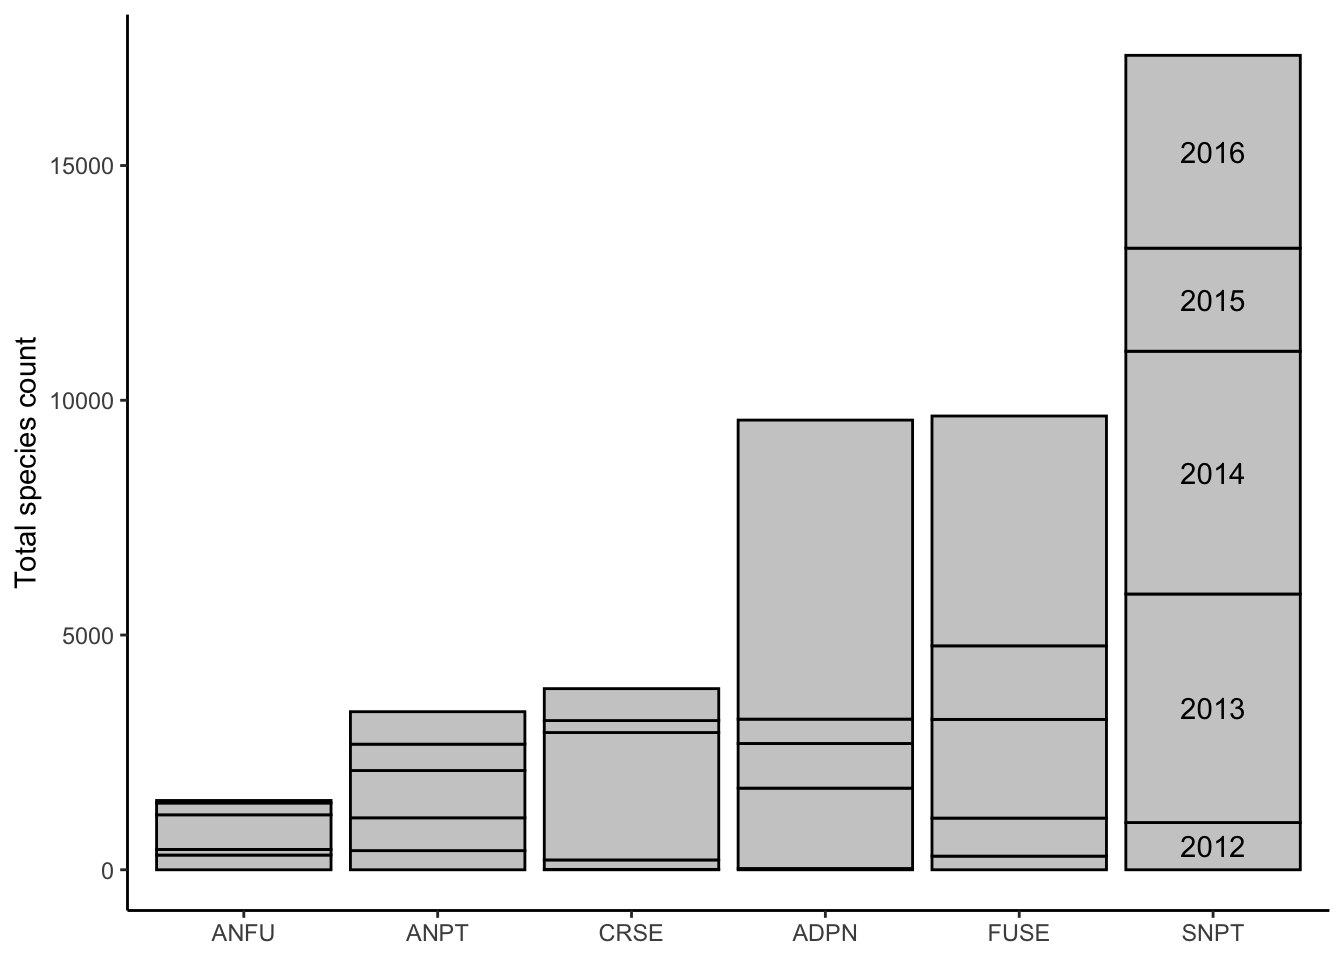
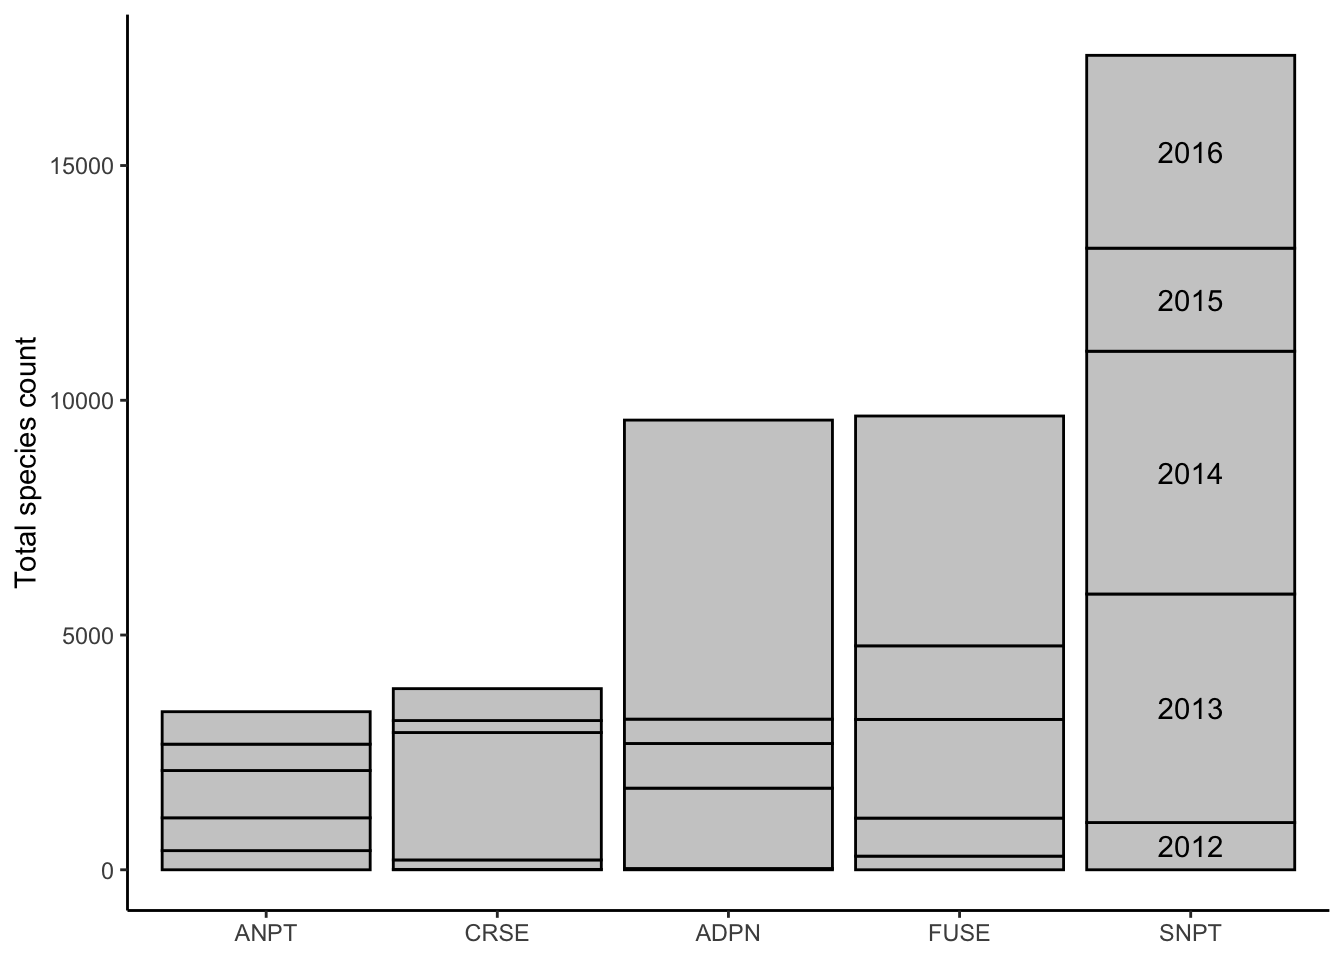
Rasterize counts by year and species

diff --git a/docs/01_predators.html b/docs/01_predators.html
@@ -104,7 +104,7 @@ code span.wa { color: #60a0b0; font-weight: bold; font-style: italic; } /* Warni
 
 <div id="quarto-content" class="page-columns page-rows-contents page-layout-article">
 
-<main class="content" id="quarto-document-content">
+<main class="content page-columns page-full" id="quarto-document-content">
 
 <header id="title-block-header" class="quarto-title-block default">
 <div class="quarto-title">
@@ -123,49 +123,48 @@ code span.wa { color: #60a0b0; font-weight: bold; font-style: italic; } /* Warni
 
 </header>
 
-<section id="antarctic-peninsula-winter-predators" class="level2">
+<section id="antarctic-peninsula-winter-predators" class="level2 page-columns page-full">
 <h2 class="anchored" data-anchor-id="antarctic-peninsula-winter-predators">Antarctic Peninsula winter predators</h2>
 <section id="counts" class="level3">
 <h3 class="anchored" data-anchor-id="counts">Counts</h3>
-<p>The six most abundant species.</p>
+<p>The five most abundant species.</p>
 <div class="cell">
 <details>
 <summary>Code</summary>
-<div class="sourceCode cell-code" id="cb1"><pre class="sourceCode r code-with-copy"><code class="sourceCode r"><span id="cb1-1"><a href="#cb1-1" aria-hidden="true" tabindex="-1"></a>top_six <span class="ot">&lt;-</span> predators_agg <span class="sc">%&gt;%</span> </span>
+<div class="sourceCode cell-code" id="cb1"><pre class="sourceCode r code-with-copy"><code class="sourceCode r"><span id="cb1-1"><a href="#cb1-1" aria-hidden="true" tabindex="-1"></a>top_five <span class="ot">&lt;-</span> predators_agg <span class="sc">%&gt;%</span> </span>
 <span id="cb1-2"><a href="#cb1-2" aria-hidden="true" tabindex="-1"></a>  <span class="fu">group_by</span>(species) <span class="sc">%&gt;%</span> </span>
 <span id="cb1-3"><a href="#cb1-3" aria-hidden="true" tabindex="-1"></a>  <span class="fu">summarize</span>(<span class="at">total_count =</span> <span class="fu">sum</span>(count)) <span class="sc">%&gt;%</span> </span>
 <span id="cb1-4"><a href="#cb1-4" aria-hidden="true" tabindex="-1"></a>  <span class="fu">arrange</span>(<span class="fu">desc</span>(total_count)) <span class="sc">%&gt;%</span></span>
-<span id="cb1-5"><a href="#cb1-5" aria-hidden="true" tabindex="-1"></a>  <span class="fu">slice</span>(<span class="dv">1</span><span class="sc">:</span><span class="dv">6</span>)</span>
+<span id="cb1-5"><a href="#cb1-5" aria-hidden="true" tabindex="-1"></a>  <span class="fu">slice</span>(<span class="dv">1</span><span class="sc">:</span><span class="dv">5</span>)</span>
 <span id="cb1-6"><a href="#cb1-6" aria-hidden="true" tabindex="-1"></a></span>
-<span id="cb1-7"><a href="#cb1-7" aria-hidden="true" tabindex="-1"></a>top_six</span></code><button title="Copy to Clipboard" class="code-copy-button"><i class="bi"></i></button></pre></div>
+<span id="cb1-7"><a href="#cb1-7" aria-hidden="true" tabindex="-1"></a>top_five</span></code><button title="Copy to Clipboard" class="code-copy-button"><i class="bi"></i></button></pre></div>
 </details>
 <div class="cell-output cell-output-stdout">
-<pre><code># A tibble: 6 × 2
+<pre><code># A tibble: 5 × 2
   species total_count
   &lt;chr&gt;         &lt;dbl&gt;
 1 SNPT          17347
 2 FUSE           9665
 3 ADPN           9578
 4 CRSE           3858
-5 ANPT           3367
-6 ANFU           1476</code></pre>
+5 ANPT           3367</code></pre>
 </div>
 </div>
 <div class="cell">
 <details>
 <summary>Code</summary>
-<div class="sourceCode cell-code" id="cb3"><pre class="sourceCode r code-with-copy"><code class="sourceCode r"><span id="cb3-1"><a href="#cb3-1" aria-hidden="true" tabindex="-1"></a>top_six_plot_data <span class="ot">&lt;-</span> predators_agg <span class="sc">%&gt;%</span> </span>
-<span id="cb3-2"><a href="#cb3-2" aria-hidden="true" tabindex="-1"></a>  <span class="fu">semi_join</span>(top_six, <span class="at">by =</span> <span class="st">"species"</span>) <span class="sc">%&gt;%</span> </span>
+<div class="sourceCode cell-code" id="cb3"><pre class="sourceCode r code-with-copy"><code class="sourceCode r"><span id="cb3-1"><a href="#cb3-1" aria-hidden="true" tabindex="-1"></a>top_five_plot_data <span class="ot">&lt;-</span> predators_agg <span class="sc">%&gt;%</span> </span>
+<span id="cb3-2"><a href="#cb3-2" aria-hidden="true" tabindex="-1"></a>  <span class="fu">semi_join</span>(top_five, <span class="at">by =</span> <span class="st">"species"</span>) <span class="sc">%&gt;%</span> </span>
 <span id="cb3-3"><a href="#cb3-3" aria-hidden="true" tabindex="-1"></a>  <span class="fu">group_by</span>(year, species) <span class="sc">%&gt;%</span> </span>
 <span id="cb3-4"><a href="#cb3-4" aria-hidden="true" tabindex="-1"></a>  <span class="fu">summarize</span>(<span class="at">total =</span> <span class="fu">sum</span>(count), <span class="at">.groups =</span> <span class="st">"drop"</span>) <span class="sc">%&gt;%</span> </span>
 <span id="cb3-5"><a href="#cb3-5" aria-hidden="true" tabindex="-1"></a>  <span class="fu">mutate</span>(<span class="at">species =</span> <span class="fu">fct_reorder</span>(species, total, <span class="at">.fun =</span> sum),</span>
 <span id="cb3-6"><a href="#cb3-6" aria-hidden="true" tabindex="-1"></a>         <span class="at">year =</span> <span class="fu">factor</span>(year, <span class="at">levels =</span> <span class="dv">2016</span><span class="sc">:</span><span class="dv">2012</span>))</span>
-<span id="cb3-7"><a href="#cb3-7" aria-hidden="true" tabindex="-1"></a>year_labels <span class="ot">&lt;-</span> top_six_plot_data <span class="sc">%&gt;%</span> </span>
+<span id="cb3-7"><a href="#cb3-7" aria-hidden="true" tabindex="-1"></a>year_labels <span class="ot">&lt;-</span> top_five_plot_data <span class="sc">%&gt;%</span> </span>
 <span id="cb3-8"><a href="#cb3-8" aria-hidden="true" tabindex="-1"></a>  <span class="fu">filter</span>(species <span class="sc">==</span> <span class="st">"SNPT"</span>) <span class="sc">%&gt;%</span> </span>
 <span id="cb3-9"><a href="#cb3-9" aria-hidden="true" tabindex="-1"></a>  <span class="fu">arrange</span>(<span class="fu">desc</span>(year)) <span class="sc">%&gt;%</span>                   <span class="co"># Make the labels show up at</span></span>
 <span id="cb3-10"><a href="#cb3-10" aria-hidden="true" tabindex="-1"></a>  <span class="fu">mutate</span>(<span class="at">total =</span> <span class="fu">cumsum</span>(total) <span class="sc">-</span> total <span class="sc">/</span> <span class="dv">2</span>) <span class="co"># correct y-axis position</span></span>
 <span id="cb3-11"><a href="#cb3-11" aria-hidden="true" tabindex="-1"></a></span>
-<span id="cb3-12"><a href="#cb3-12" aria-hidden="true" tabindex="-1"></a><span class="fu">ggplot</span>(top_six_plot_data, <span class="fu">aes</span>(species, total, <span class="at">group =</span> year)) <span class="sc">+</span></span>
+<span id="cb3-12"><a href="#cb3-12" aria-hidden="true" tabindex="-1"></a><span class="fu">ggplot</span>(top_five_plot_data, <span class="fu">aes</span>(species, total, <span class="at">group =</span> year)) <span class="sc">+</span></span>
 <span id="cb3-13"><a href="#cb3-13" aria-hidden="true" tabindex="-1"></a>  <span class="fu">geom_col</span>(<span class="at">color =</span> <span class="st">"black"</span>, <span class="at">fill =</span> <span class="st">"grey80"</span>) <span class="sc">+</span></span>
 <span id="cb3-14"><a href="#cb3-14" aria-hidden="true" tabindex="-1"></a>  <span class="fu">geom_text</span>(<span class="fu">aes</span>(<span class="at">label =</span> year), year_labels) <span class="sc">+</span></span>
 <span id="cb3-15"><a href="#cb3-15" aria-hidden="true" tabindex="-1"></a>  <span class="fu">labs</span>(<span class="at">y =</span> <span class="st">"Total species count"</span>) <span class="sc">+</span></span>
@@ -177,36 +176,35 @@ code span.wa { color: #60a0b0; font-weight: bold; font-style: italic; } /* Warni
 </div>
 </div>
 </section>
-<section id="maps" class="level3">
+<section id="maps" class="level3 page-columns page-full">
 <h3 class="anchored" data-anchor-id="maps">Maps</h3>
-<div class="cell">
+<div class="cell page-columns page-full" data-fig.dpi="600">
 <details>
 <summary>Code</summary>
-<div class="sourceCode cell-code" id="cb4"><pre class="sourceCode r code-with-copy"><code class="sourceCode r"><span id="cb4-1"><a href="#cb4-1" aria-hidden="true" tabindex="-1"></a>snpt_sf <span class="ot">&lt;-</span> predators_agg <span class="sc">%&gt;%</span> </span>
-<span id="cb4-2"><a href="#cb4-2" aria-hidden="true" tabindex="-1"></a>  <span class="fu">filter</span>(species <span class="sc">==</span> <span class="st">"SNPT"</span>,</span>
-<span id="cb4-3"><a href="#cb4-3" aria-hidden="true" tabindex="-1"></a>         year <span class="sc">==</span> <span class="dv">2016</span>) <span class="sc">%&gt;%</span> </span>
-<span id="cb4-4"><a href="#cb4-4" aria-hidden="true" tabindex="-1"></a>  <span class="fu">latlon_to_sf</span>(<span class="at">coords =</span> <span class="fu">c</span>(<span class="st">"lon_mean"</span>, <span class="st">"lat_mean"</span>))</span>
-<span id="cb4-5"><a href="#cb4-5" aria-hidden="true" tabindex="-1"></a></span>
-<span id="cb4-6"><a href="#cb4-6" aria-hidden="true" tabindex="-1"></a>snpt_stars <span class="ot">&lt;-</span> <span class="fu">rasterize_counts</span>(snpt_sf, <span class="at">res =</span> <span class="fl">1e4</span>, <span class="at">layer_name =</span> <span class="st">"SNPT"</span>)</span>
-<span id="cb4-7"><a href="#cb4-7" aria-hidden="true" tabindex="-1"></a></span>
-<span id="cb4-8"><a href="#cb4-8" aria-hidden="true" tabindex="-1"></a>map_lim <span class="ot">&lt;-</span> sf<span class="sc">::</span><span class="fu">st_bbox</span>(snpt_sf) <span class="sc">%&gt;%</span> </span>
-<span id="cb4-9"><a href="#cb4-9" aria-hidden="true" tabindex="-1"></a>  <span class="fu">project_bbox</span>()</span>
+<div class="sourceCode cell-code" id="cb4"><pre class="sourceCode r code-with-copy"><code class="sourceCode r"><span id="cb4-1"><a href="#cb4-1" aria-hidden="true" tabindex="-1"></a>topfive_sf <span class="ot">&lt;-</span> predators_agg <span class="sc">%&gt;%</span> </span>
+<span id="cb4-2"><a href="#cb4-2" aria-hidden="true" tabindex="-1"></a>  <span class="fu">semi_join</span>(top_five, <span class="at">by =</span> <span class="st">"species"</span>) <span class="sc">%&gt;%</span> </span>
+<span id="cb4-3"><a href="#cb4-3" aria-hidden="true" tabindex="-1"></a>  <span class="fu">latlon_to_sf</span>(<span class="at">coords =</span> <span class="fu">c</span>(<span class="st">"lon_mean"</span>, <span class="st">"lat_mean"</span>))</span>
+<span id="cb4-4"><a href="#cb4-4" aria-hidden="true" tabindex="-1"></a></span>
+<span id="cb4-5"><a href="#cb4-5" aria-hidden="true" tabindex="-1"></a>topfive_stars <span class="ot">&lt;-</span> <span class="fu">rasterize_counts</span>(topfive_sf, <span class="at">res =</span> <span class="fl">5e4</span>)</span>
+<span id="cb4-6"><a href="#cb4-6" aria-hidden="true" tabindex="-1"></a></span>
+<span id="cb4-7"><a href="#cb4-7" aria-hidden="true" tabindex="-1"></a>map_lim <span class="ot">&lt;-</span> sf<span class="sc">::</span><span class="fu">st_bbox</span>(topfive_sf) <span class="sc">%&gt;%</span> </span>
+<span id="cb4-8"><a href="#cb4-8" aria-hidden="true" tabindex="-1"></a>  <span class="fu">project_bbox</span>() <span class="sc">%&gt;%</span> </span>
+<span id="cb4-9"><a href="#cb4-9" aria-hidden="true" tabindex="-1"></a>  <span class="fu">expand_bbox</span>(<span class="at">factor =</span> <span class="fl">1.2</span>)</span>
 <span id="cb4-10"><a href="#cb4-10" aria-hidden="true" tabindex="-1"></a></span>
-<span id="cb4-11"><a href="#cb4-11" aria-hidden="true" tabindex="-1"></a><span class="fu">ggplot</span>() <span class="sc">+</span></span>
-<span id="cb4-12"><a href="#cb4-12" aria-hidden="true" tabindex="-1"></a>  <span class="fu">geom_sf</span>(<span class="at">data =</span> ant_sf) <span class="sc">+</span></span>
-<span id="cb4-13"><a href="#cb4-13" aria-hidden="true" tabindex="-1"></a>  stars<span class="sc">::</span><span class="fu">geom_stars</span>(<span class="fu">aes</span>(<span class="at">fill =</span> SNPT), <span class="at">data =</span> snpt_stars) <span class="sc">+</span></span>
-<span id="cb4-14"><a href="#cb4-14" aria-hidden="true" tabindex="-1"></a>  <span class="fu">scale_fill_gradient</span>(<span class="at">low =</span> <span class="st">"lightblue"</span>, <span class="at">high =</span> <span class="st">"darkred"</span>,</span>
-<span id="cb4-15"><a href="#cb4-15" aria-hidden="true" tabindex="-1"></a>                      <span class="at">na.value =</span> <span class="cn">NA</span>) <span class="sc">+</span></span>
-<span id="cb4-16"><a href="#cb4-16" aria-hidden="true" tabindex="-1"></a>  <span class="fu">expand_limits</span>(<span class="at">fill =</span> <span class="dv">0</span>) <span class="sc">+</span></span>
-<span id="cb4-17"><a href="#cb4-17" aria-hidden="true" tabindex="-1"></a>  <span class="fu">coord_sf</span>(<span class="at">xlim =</span> map_lim[<span class="fu">c</span>(<span class="st">"xmin"</span>, <span class="st">"xmax"</span>)],</span>
-<span id="cb4-18"><a href="#cb4-18" aria-hidden="true" tabindex="-1"></a>           <span class="at">ylim =</span> map_lim[<span class="fu">c</span>(<span class="st">"ymin"</span>, <span class="st">"ymax"</span>)],</span>
-<span id="cb4-19"><a href="#cb4-19" aria-hidden="true" tabindex="-1"></a>           <span class="at">expand =</span> <span class="cn">FALSE</span>,</span>
-<span id="cb4-20"><a href="#cb4-20" aria-hidden="true" tabindex="-1"></a>           <span class="at">crs =</span> <span class="fu">ant_proj</span>()) <span class="sc">+</span></span>
-<span id="cb4-21"><a href="#cb4-21" aria-hidden="true" tabindex="-1"></a>  <span class="fu">theme_minimal</span>() <span class="sc">+</span></span>
-<span id="cb4-22"><a href="#cb4-22" aria-hidden="true" tabindex="-1"></a>  <span class="fu">theme</span>(<span class="at">axis.title =</span> <span class="fu">element_blank</span>())</span></code><button title="Copy to Clipboard" class="code-copy-button"><i class="bi"></i></button></pre></div>
+<span id="cb4-11"><a href="#cb4-11" aria-hidden="true" tabindex="-1"></a><span class="fu">ant_basemap</span>(map_lim) <span class="sc">+</span></span>
+<span id="cb4-12"><a href="#cb4-12" aria-hidden="true" tabindex="-1"></a>  stars<span class="sc">::</span><span class="fu">geom_stars</span>(<span class="fu">aes</span>(<span class="at">fill =</span> count), <span class="at">data =</span> topfive_stars) <span class="sc">+</span></span>
+<span id="cb4-13"><a href="#cb4-13" aria-hidden="true" tabindex="-1"></a>  <span class="fu">scale_fill_gradient</span>(<span class="at">low =</span> <span class="st">"lightblue"</span>, <span class="at">high =</span> <span class="st">"darkred"</span>,</span>
+<span id="cb4-14"><a href="#cb4-14" aria-hidden="true" tabindex="-1"></a>                      <span class="at">trans =</span> scales<span class="sc">::</span><span class="fu">pseudo_log_trans</span>(),</span>
+<span id="cb4-15"><a href="#cb4-15" aria-hidden="true" tabindex="-1"></a>                      <span class="at">breaks =</span> <span class="fu">c</span>(<span class="dv">0</span>, <span class="dv">25</span>, <span class="dv">100</span>, <span class="dv">400</span>, <span class="dv">1000</span>, <span class="dv">4000</span>),</span>
+<span id="cb4-16"><a href="#cb4-16" aria-hidden="true" tabindex="-1"></a>                      <span class="at">na.value =</span> <span class="cn">NA</span>) <span class="sc">+</span></span>
+<span id="cb4-17"><a href="#cb4-17" aria-hidden="true" tabindex="-1"></a>  <span class="fu">scale_x_continuous</span>(<span class="at">breaks =</span> <span class="fu">c</span>(<span class="sc">-</span><span class="dv">65</span>, <span class="sc">-</span><span class="dv">60</span>, <span class="sc">-</span><span class="dv">55</span>)) <span class="sc">+</span></span>
+<span id="cb4-18"><a href="#cb4-18" aria-hidden="true" tabindex="-1"></a>  <span class="fu">scale_y_continuous</span>(<span class="at">breaks =</span> <span class="fu">c</span>(<span class="sc">-</span><span class="dv">64</span>, <span class="sc">-</span><span class="dv">62</span>, <span class="sc">-</span><span class="dv">60</span>, <span class="sc">-</span><span class="dv">58</span>)) <span class="sc">+</span></span>
+<span id="cb4-19"><a href="#cb4-19" aria-hidden="true" tabindex="-1"></a>  <span class="fu">facet_grid</span>(species <span class="sc">~</span> year) <span class="sc">+</span></span>
+<span id="cb4-20"><a href="#cb4-20" aria-hidden="true" tabindex="-1"></a>  <span class="fu">expand_limits</span>(<span class="at">fill =</span> <span class="dv">0</span>) <span class="sc">+</span></span>
+<span id="cb4-21"><a href="#cb4-21" aria-hidden="true" tabindex="-1"></a>  <span class="fu">theme</span>(<span class="at">axis.text.x =</span> <span class="fu">element_text</span>(<span class="at">size =</span> <span class="dv">7</span>))</span></code><button title="Copy to Clipboard" class="code-copy-button"><i class="bi"></i></button></pre></div>
 </details>
-<div class="cell-output-display">
-<p><img src="01_predators_files/figure-html/snpt_map-1.png" class="img-fluid" width="672"></p>
+<div class="cell-output-display column-screen">
+<p><img src="01_predators_files/figure-html/topfive_map-1.png" class="img-fluid" style="width:100.0%"></p>
 </div>
 </div>
 </section>
